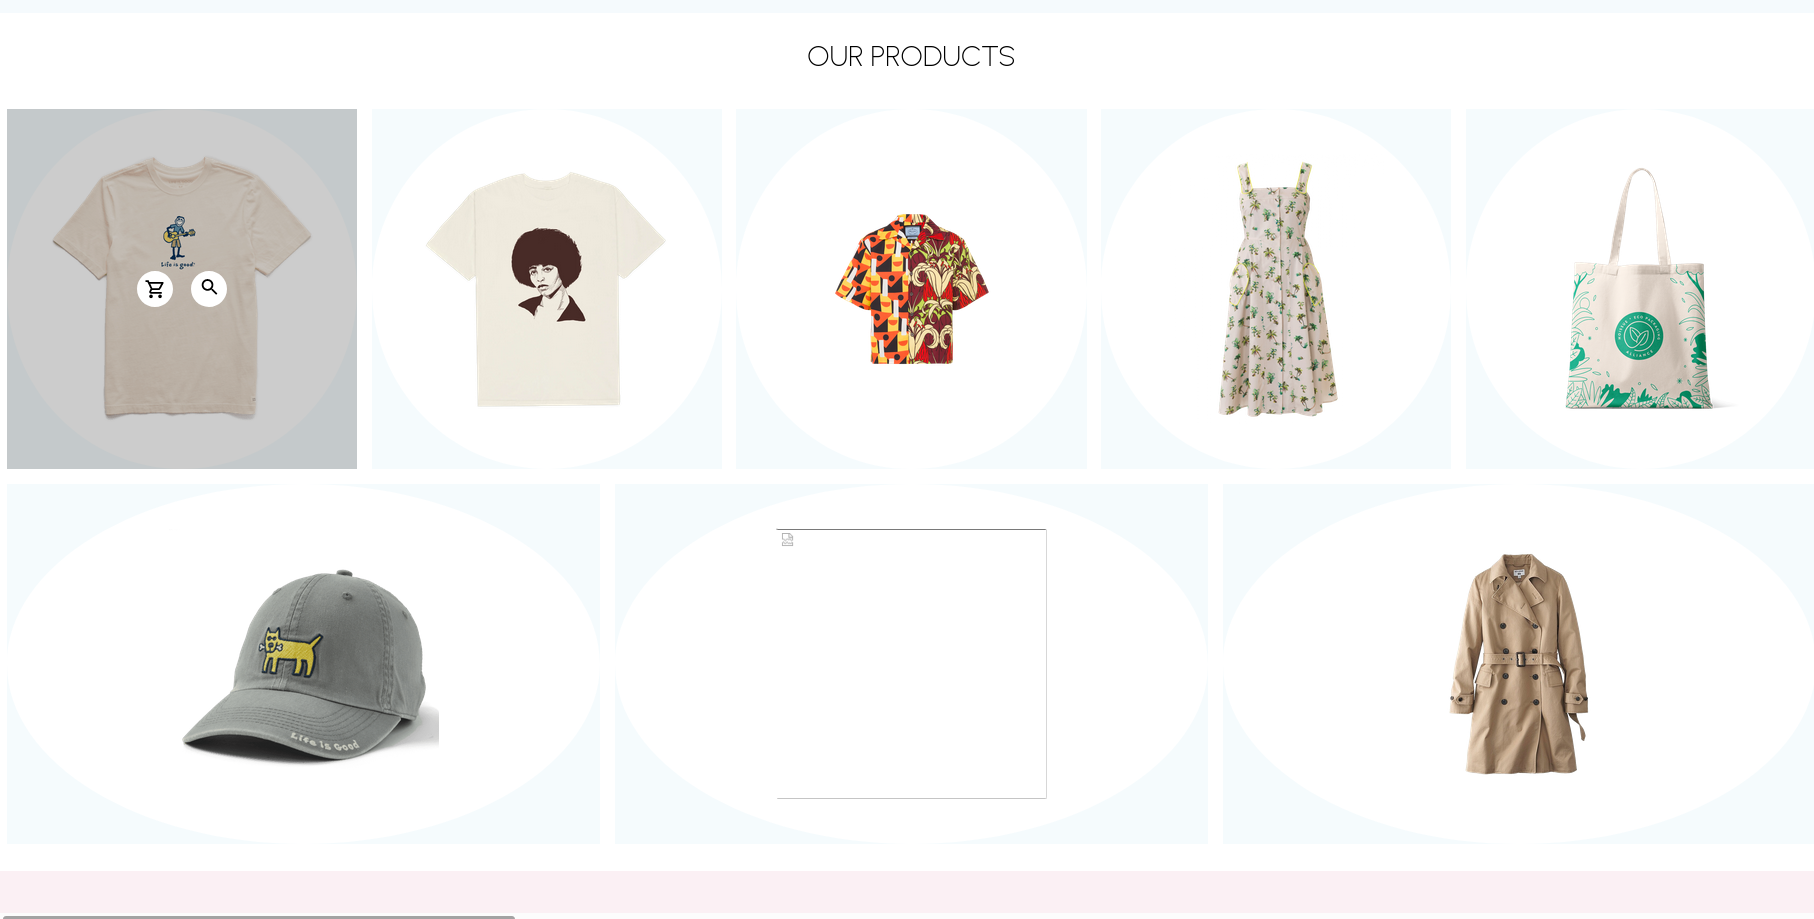
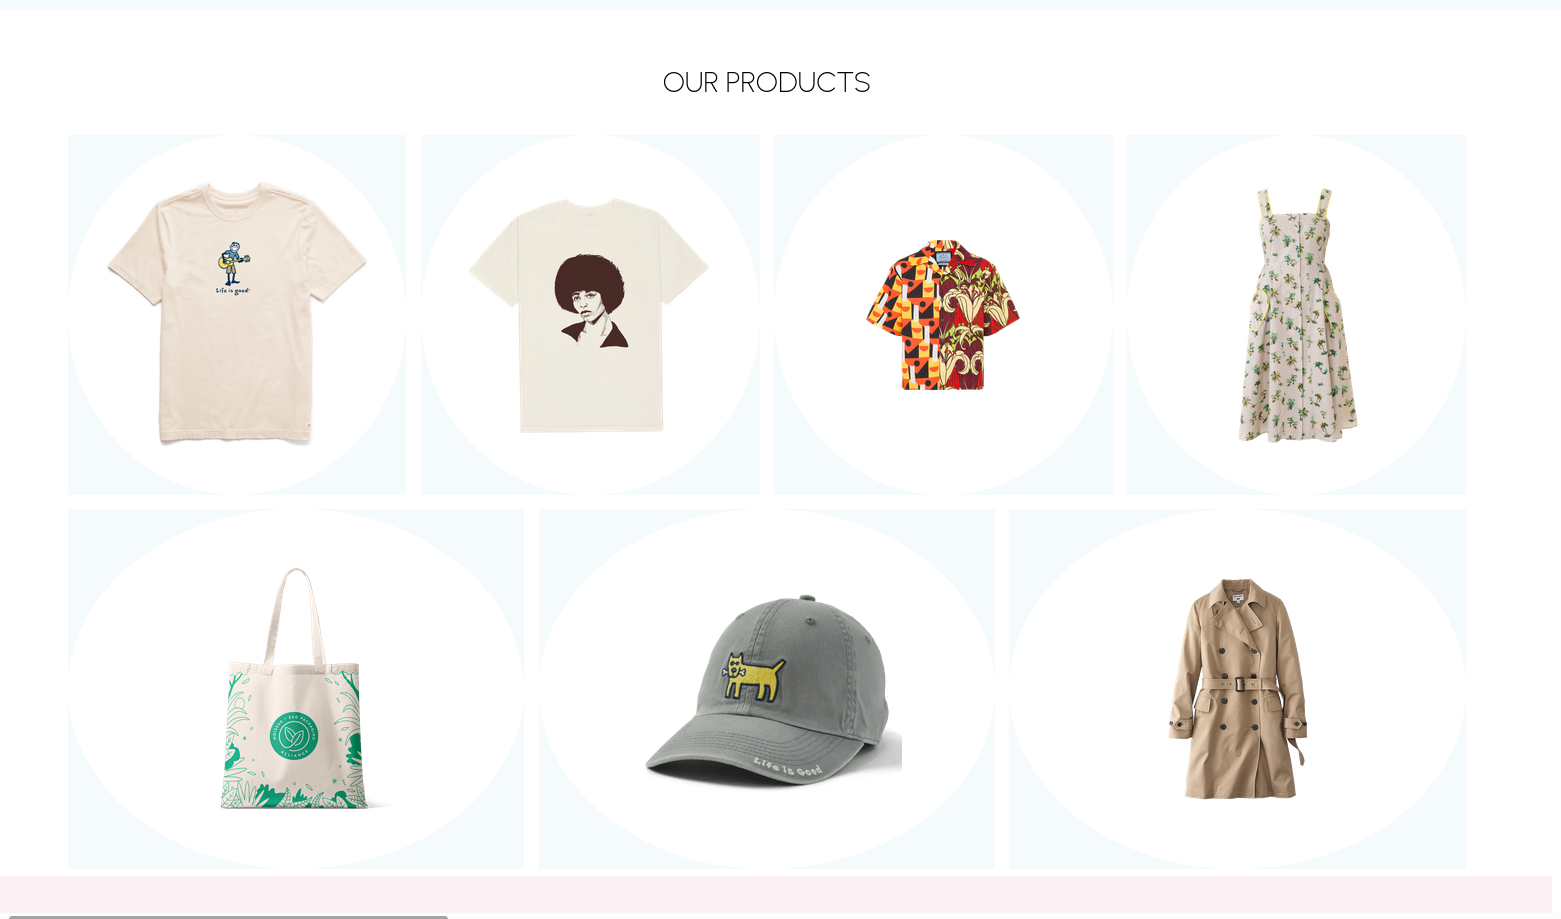
Fix missing image

diff --git a/src/components/Products/styles.js b/src/components/Products/styles.js
@@ -3,6 +3,9 @@ import { Link as LinkRouter } from "react-router-dom";
 
 export const Container = styled.div`
 	min-height: 90vh;
+	display: flex;
+	flex-direction: column;
+	align-items: center;
 `;
 
 export const Link = styled(LinkRouter)`
@@ -17,6 +20,7 @@ export const Title = styled.h1`
 `;
 
 export const Wrapper = styled.div`
+	width: 90%;
 	display: flex;
 	flex-wrap: wrap;
 `;

diff --git a/src/db.js b/src/db.js
@@ -66,10 +66,6 @@ export const popularProducts = [
 		img: "https://d3o2e4jr3mxnm3.cloudfront.net/Rocket-Vintage-Chill-Cap_66374_1_lg.png",
 	},
 	{
-		id: 7,
-		img: "https://www.vintageindustries.nl/download_front/qympzk1762/2217_Arrow_Jacket_Forest.png",
-	},
-	{
 		id: 8,
 		img: "https://www.pngarts.com/files/3/Women-Jacket-PNG-High-Quality-Image.png",
 	},
